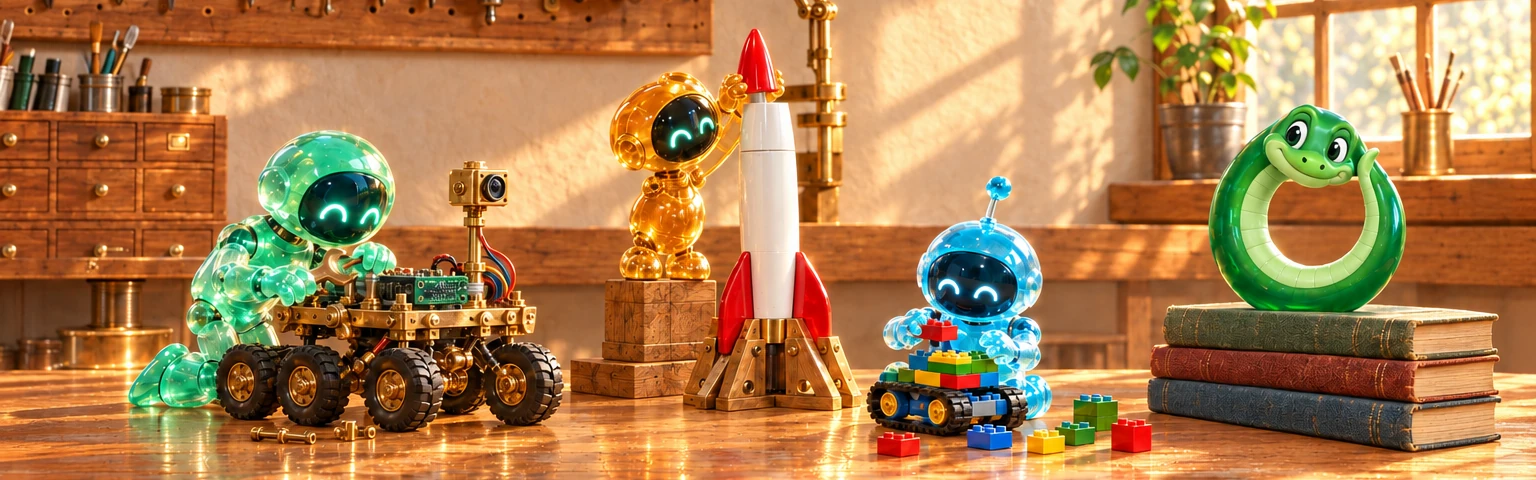
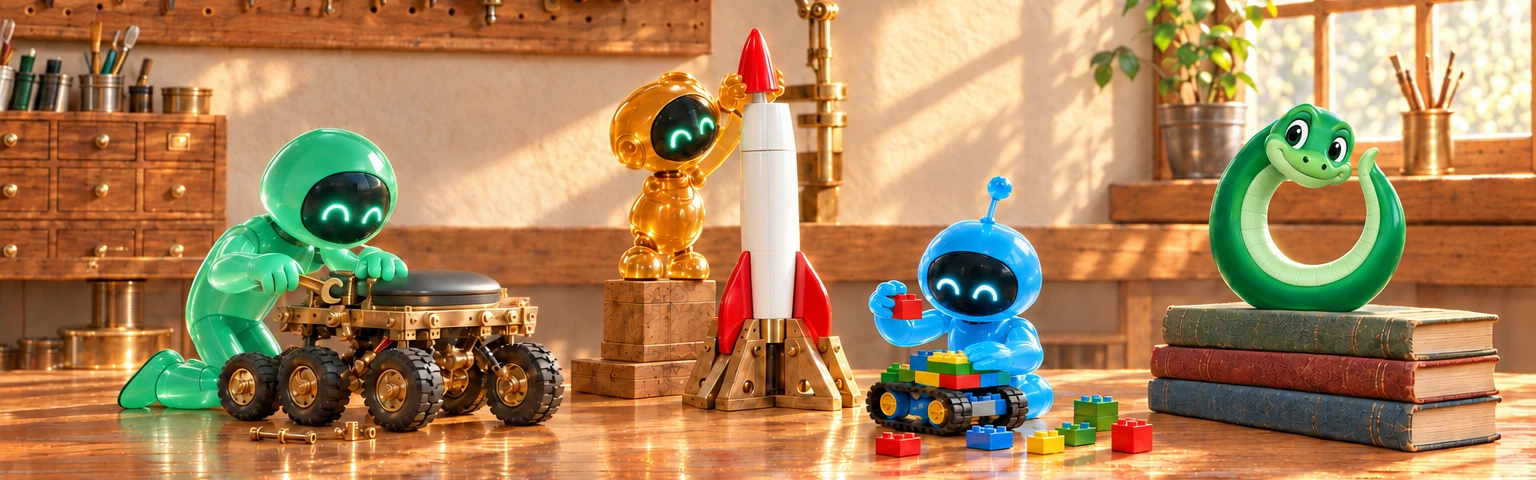
Fix the workbench art's physical defects (#8)
A blind defect hunt at 4x found fused grips, a merged lower body, a
not-quite-open ring on Ouro, a night builder facing away from its rocket
and dated-looking rover electronics. The jade agent now kneels on two
legs and holds the spanner by its handle, the blue agent grips its brick
with its thumb, Ouro's ring is plainly open, the amber agent faces the
finished rocket at night, and the rover carries a sealed modern module
instead of a bare board and webcam.

diff --git a/README.md b/README.md
@@ -1,6 +1,6 @@
 <picture>
   <source media="(prefers-color-scheme: dark)" srcset="./assets/workbench-night.webp">
-  <img src="./assets/workbench-day.webp" width="100%" alt="A workbench in a sunny workshop, with small glass robots building things. A jade one tightens a bolt on a six-wheeled inspection rover, an amber one sets the nose cone on a model rocket, and a blue one clicks toy bricks into a little tracked robot. A small green snake curled into an O watches from a stack of books. In light mode it's afternoon. In dark mode it's night: the lamp is on, the moon is in the window, the rocket is finished and its builder is resting, and the other two are still at work.">
+  <img src="./assets/workbench-day.webp" width="100%" alt="A workbench in a sunny workshop, with small glass robots building things. A jade one tightens a nut on a six-wheeled inspection rover, an amber one sets the nose cone on a model rocket, and a blue one clicks toy bricks into a little tracked robot. A small green snake curled into an O watches from a stack of books. In light mode it's afternoon. In dark mode it's night: the lamp is on, the moon is in the window, the rocket is finished and its builder is resting, and the other two are still at work.">
 </picture>
 
 My agents, building the things I used to build by hand. Switch GitHub's theme to see who's still up. ([day](./assets/workbench-day.webp) · [night](./assets/workbench-night.webp))
